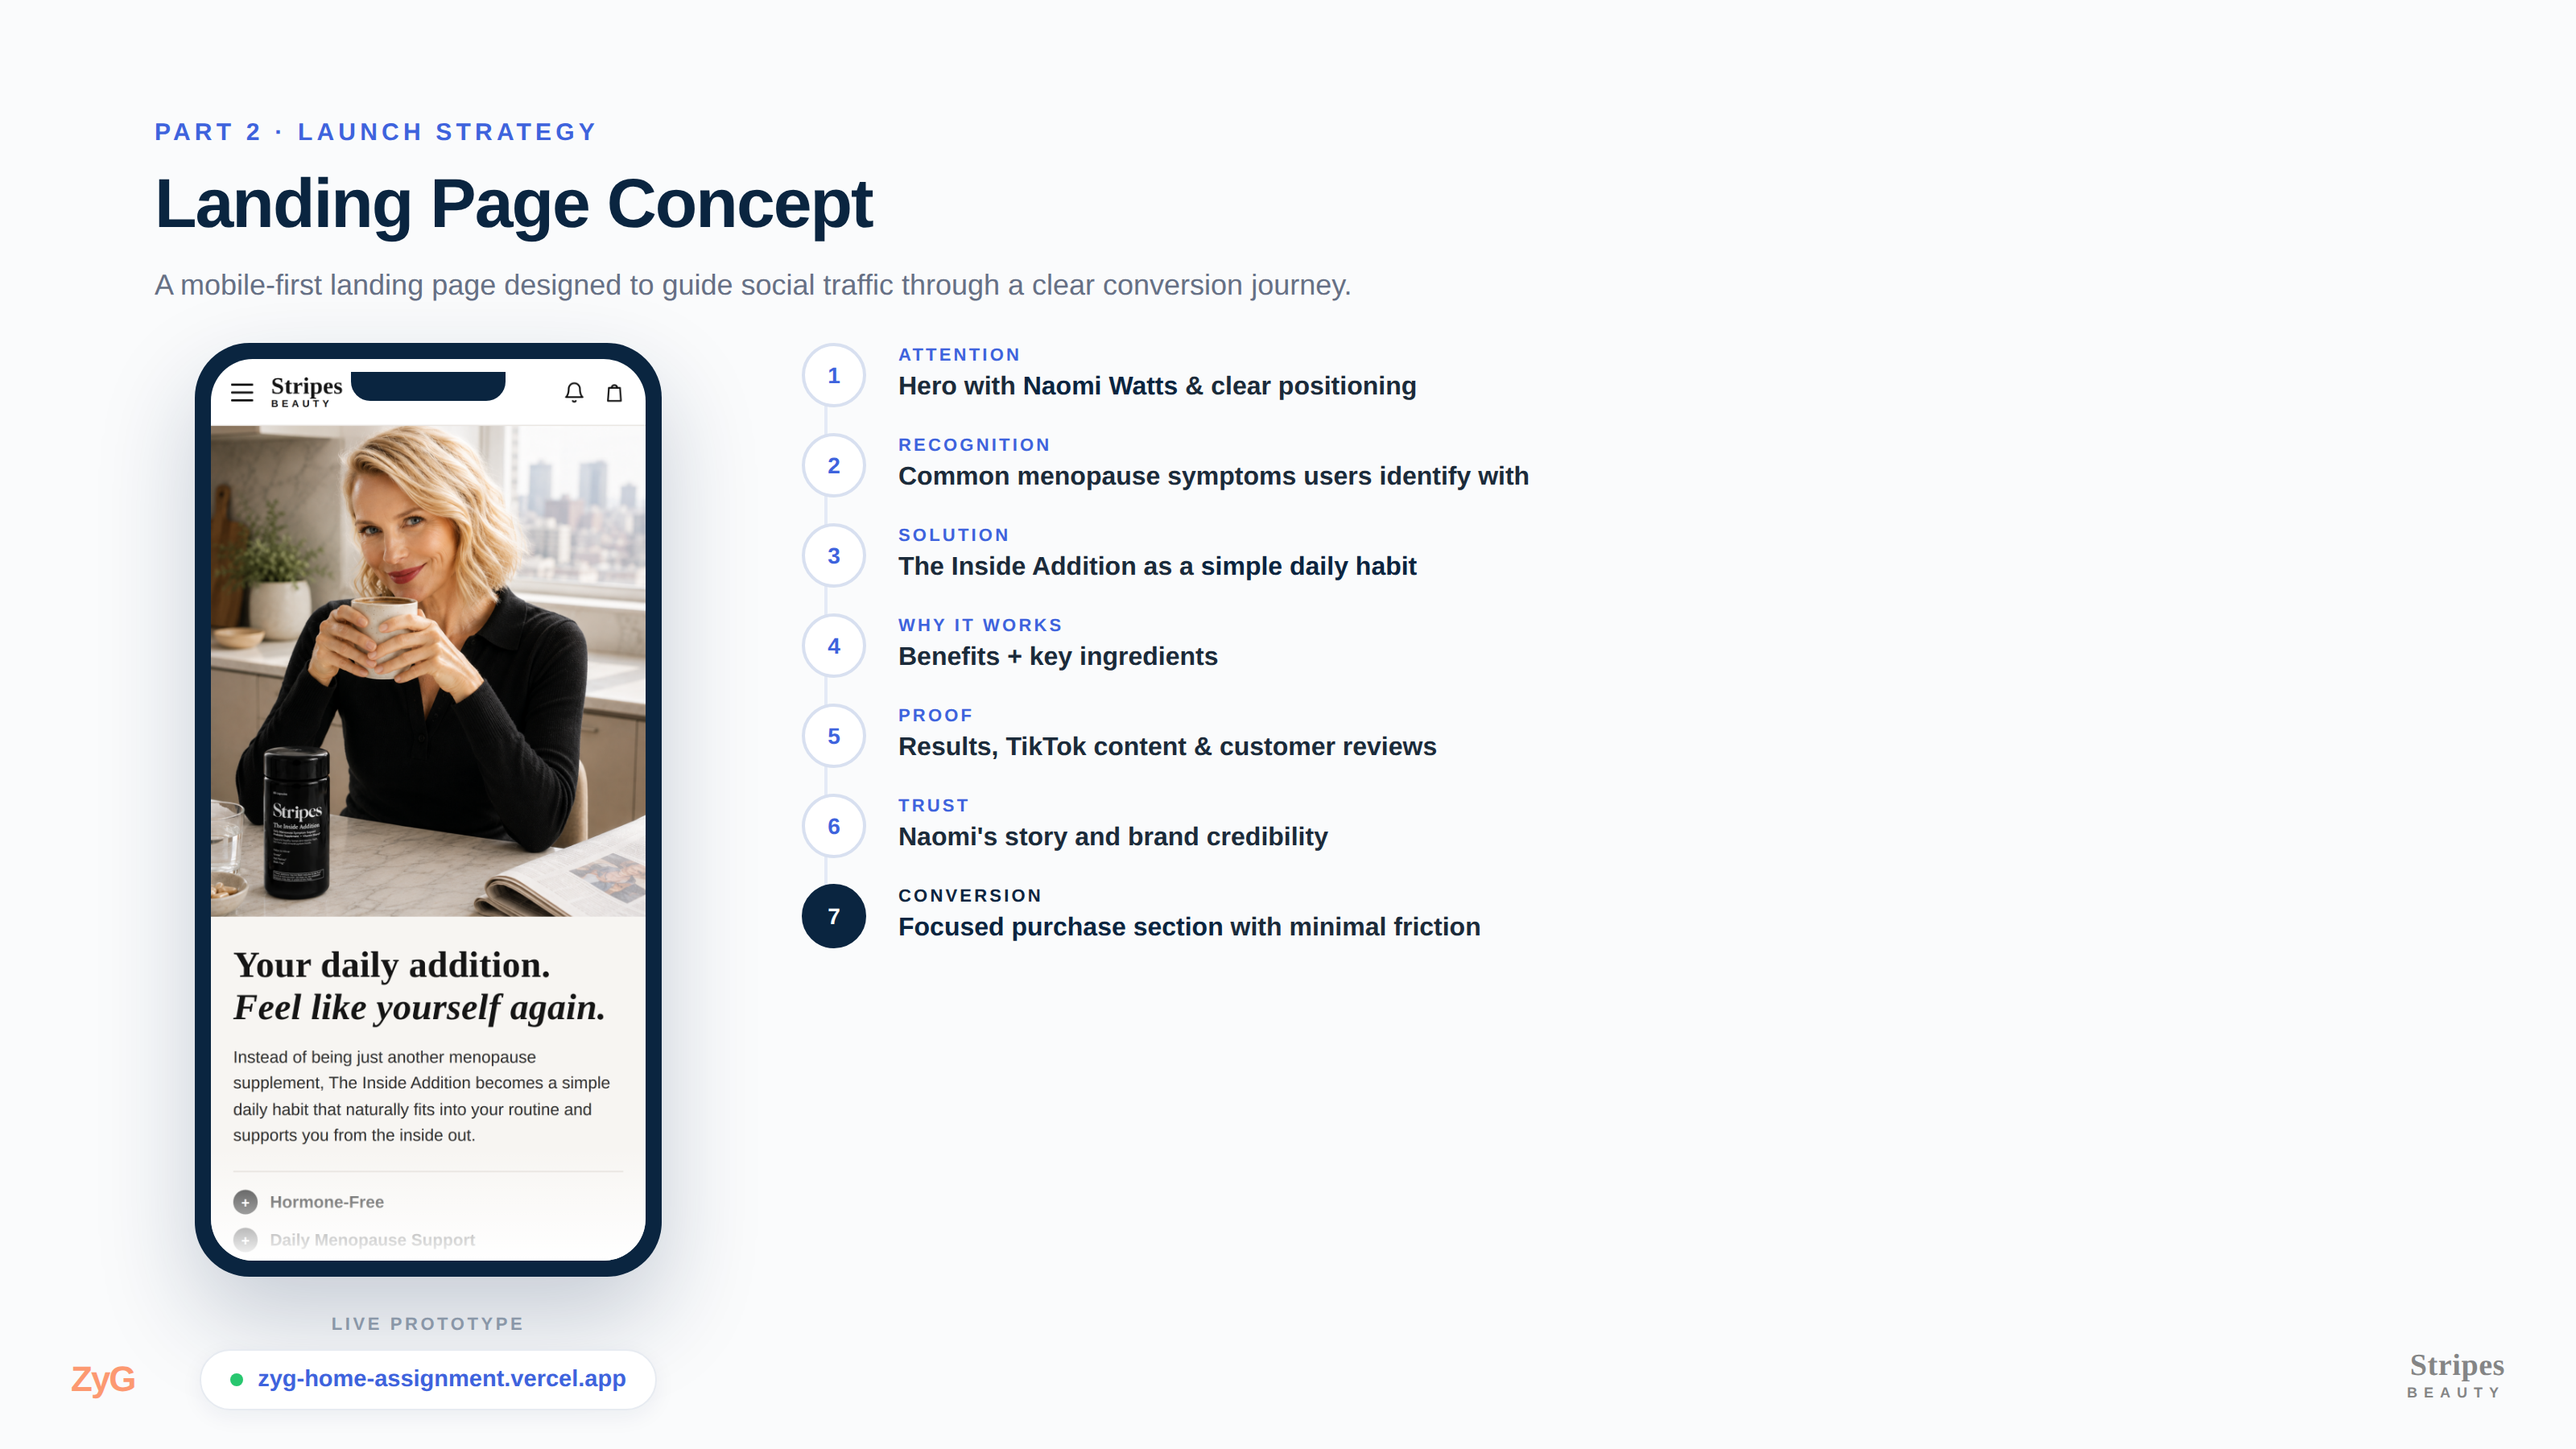
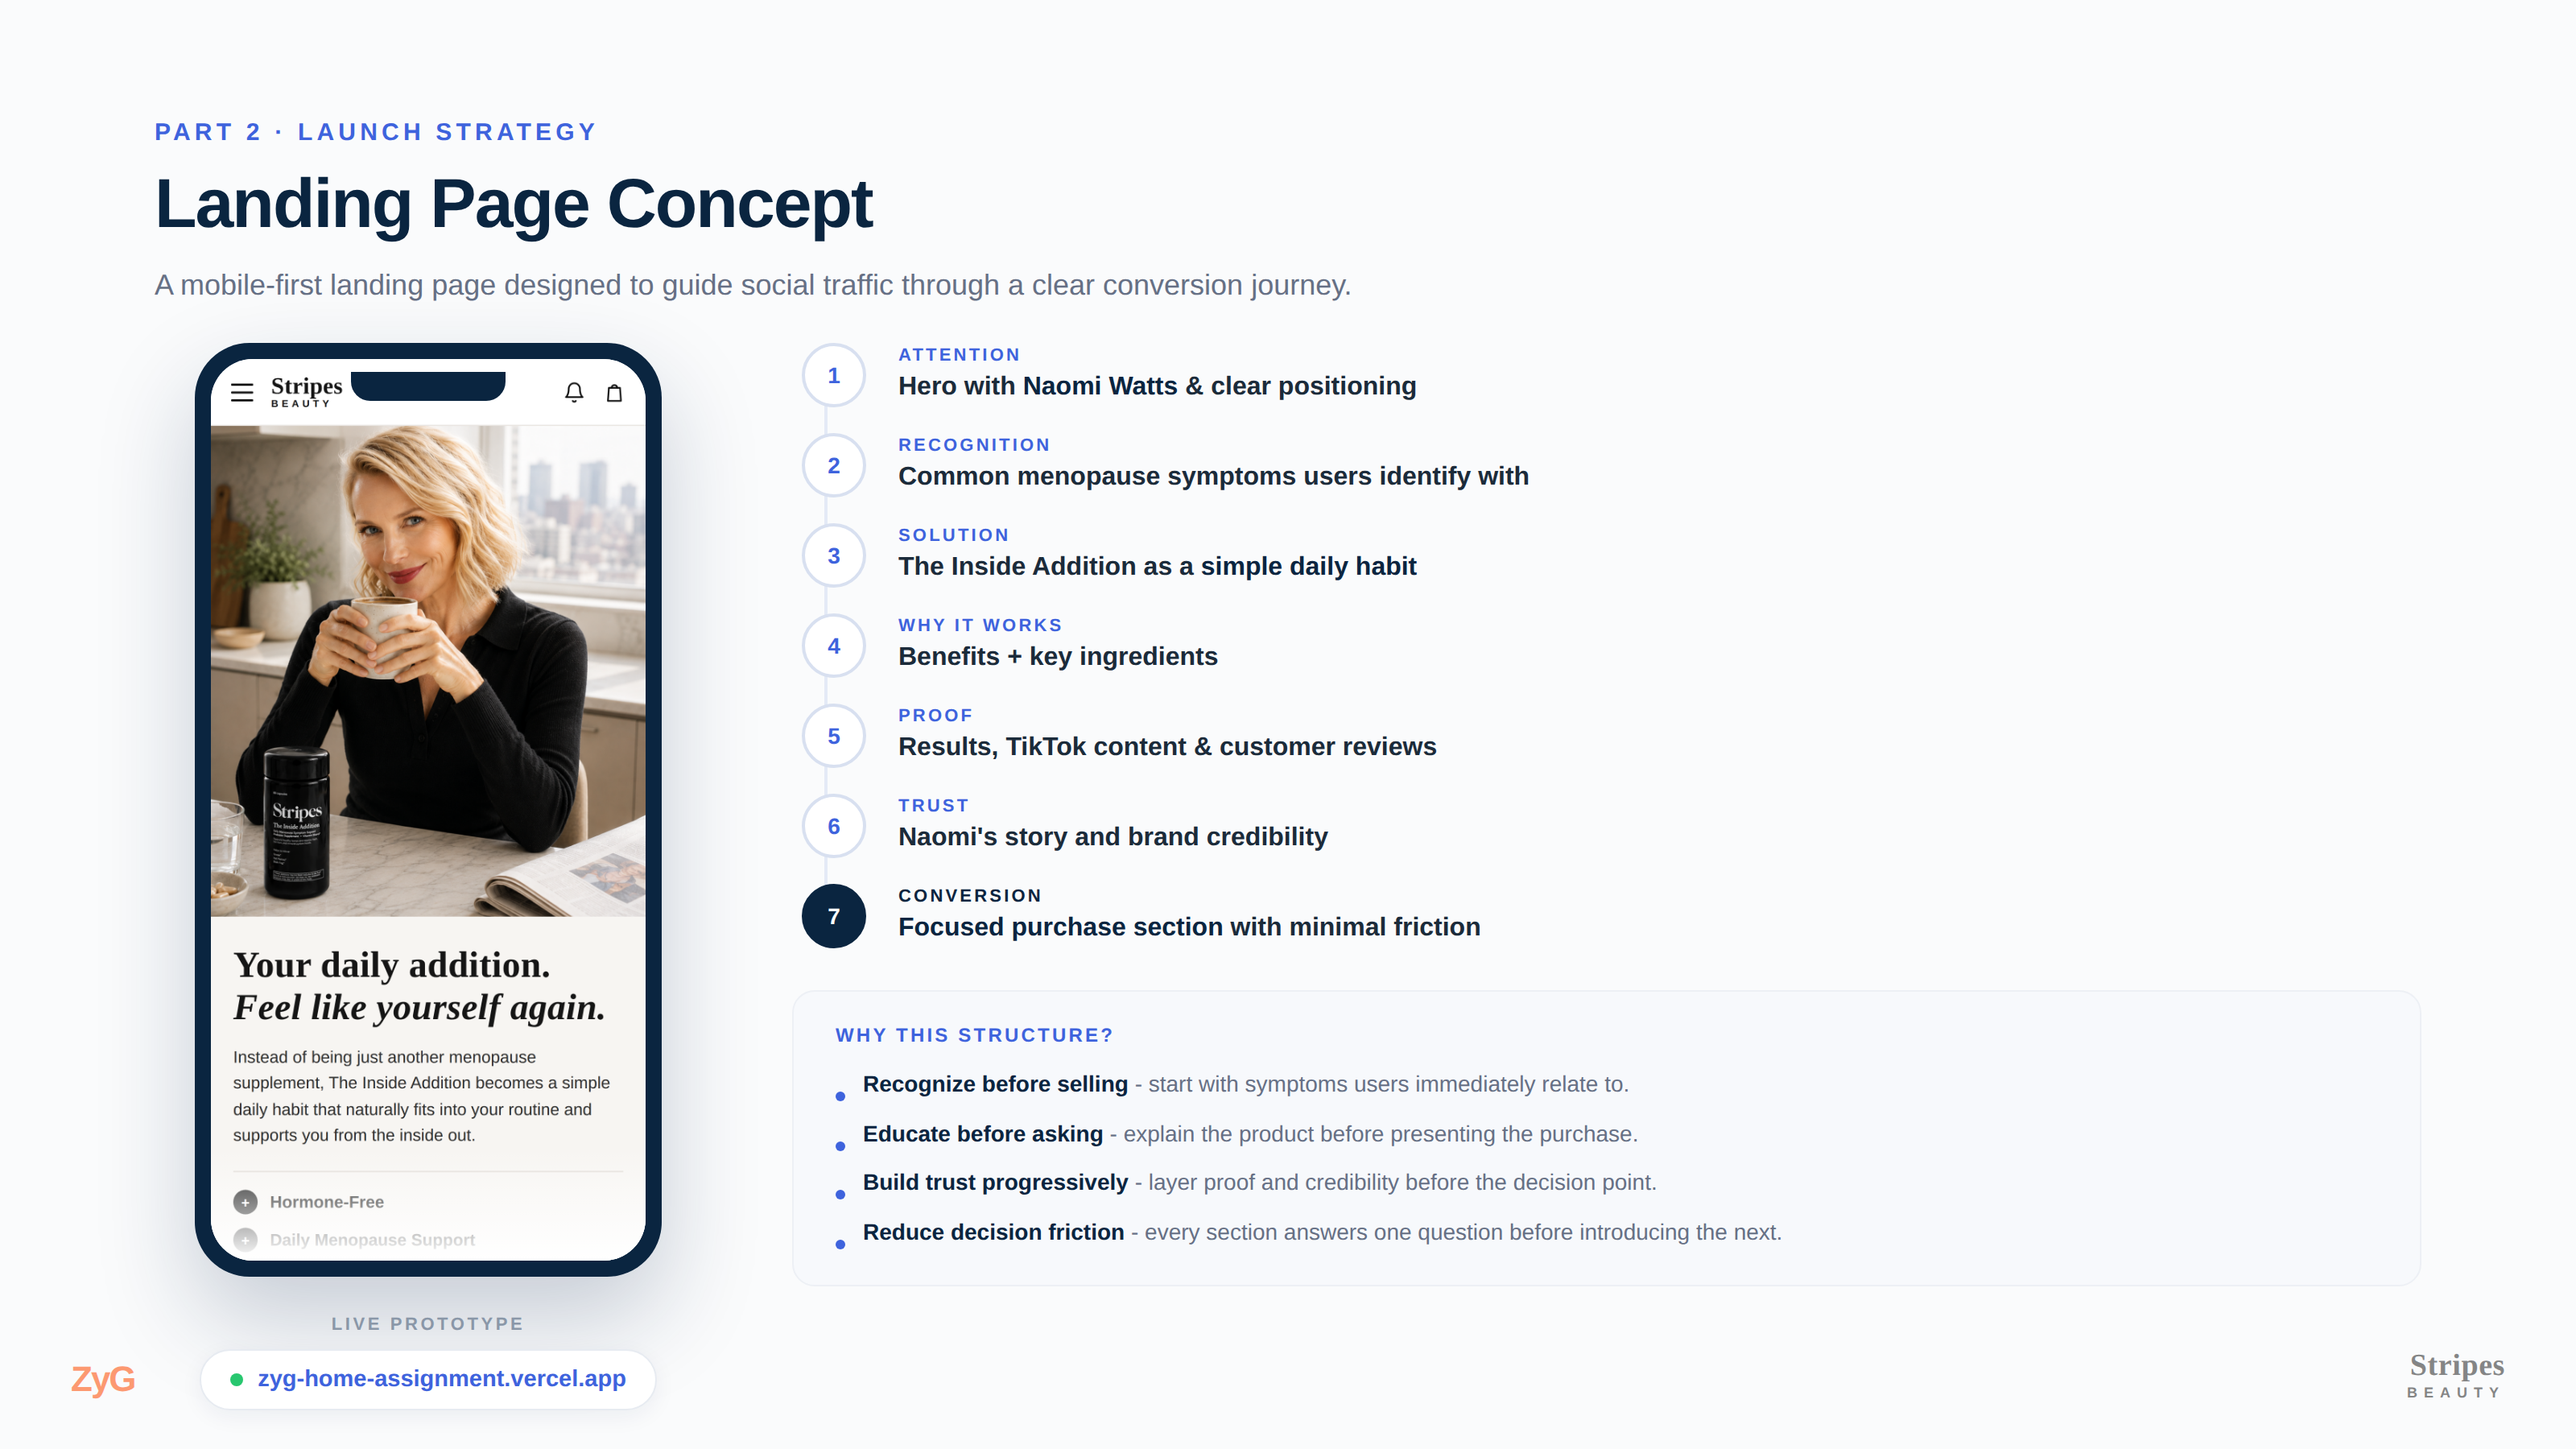
Landing Page Concept: add 'Why this structure?' rationale block
Fill the empty right-side space below the journey timeline with a compact
4-bullet CRO rationale; layout/timeline unchanged.

Claude-Session: https://claude.ai/code/session_01GoAG3ySswQXo2H1hh5EwTk

Changed region(s): [[0.3438, 0.7156, 0.6875, 0.8711]]

diff --git a/diagrams/slides/p2-03-landing.html b/diagrams/slides/p2-03-landing.html
@@ -15,9 +15,16 @@
   .urlwrap .link .dot{width:8px;height:8px;border-radius:50%;background:#28C76F;flex-shrink:0;}
   .urlwrap .link .u{font-size:14.5px;font-weight:600;color:var(--blue);}
 
-  /* right: journey flow */
-  .flow{flex:1;min-width:0;position:relative;padding-left:6px;}
+  /* right: journey flow + rationale */
+  .rightcol{flex:1;min-width:0;display:flex;flex-direction:column;}
+  .flow{position:relative;padding-left:6px;}
   .flow::before{content:"";position:absolute;left:20px;top:14px;bottom:16px;width:2px;background:#E4EAF6;}
+  .why{margin-top:26px;background:#F7F9FC;border:1px solid var(--line-2);border-radius:14px;padding:20px 26px 22px;}
+  .why h4{font-size:12px;font-weight:700;letter-spacing:1.6px;text-transform:uppercase;color:var(--blue);}
+  .why ul{margin-top:14px;display:flex;flex-direction:column;gap:11px;}
+  .why li{list-style:none;display:flex;gap:11px;align-items:baseline;font-size:14px;color:var(--muted);line-height:1.4;}
+  .why li .dd{width:6px;height:6px;border-radius:50%;background:var(--blue);flex-shrink:0;position:relative;top:6px;}
+  .why li b{color:var(--navy);font-weight:700;}
   .step{display:flex;gap:20px;align-items:flex-start;position:relative;}
   .step + .step{margin-top:16px;}
   .step .node{width:40px;height:40px;border-radius:50%;background:#fff;border:2px solid #D8E0F0;color:var(--blue);font-size:14px;font-weight:800;display:flex;align-items:center;justify-content:center;flex-shrink:0;z-index:2;}
@@ -48,6 +55,7 @@
       </div>
     </div>
 
+    <div class="rightcol">
     <div class="flow">
       <div class="step">
         <div class="node">1</div>
@@ -76,6 +84,17 @@
       <div class="step last">
         <div class="node">7</div>
         <div class="body"><div class="stg">Conversion</div><div class="d"><b>Focused purchase section</b> with minimal friction</div></div>
+      </div>
+    </div>
+
+      <div class="why">
+        <h4>Why this structure?</h4>
+        <ul>
+          <li><span class="dd"></span><span><b>Recognize before selling</b> - start with symptoms users immediately relate to.</span></li>
+          <li><span class="dd"></span><span><b>Educate before asking</b> - explain the product before presenting the purchase.</span></li>
+          <li><span class="dd"></span><span><b>Build trust progressively</b> - layer proof and credibility before the decision point.</span></li>
+          <li><span class="dd"></span><span><b>Reduce decision friction</b> - every section answers one question before introducing the next.</span></li>
+        </ul>
       </div>
     </div>
   </div>
